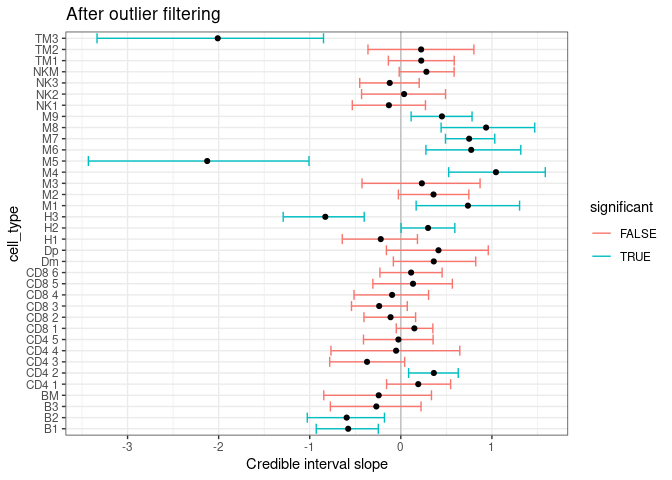
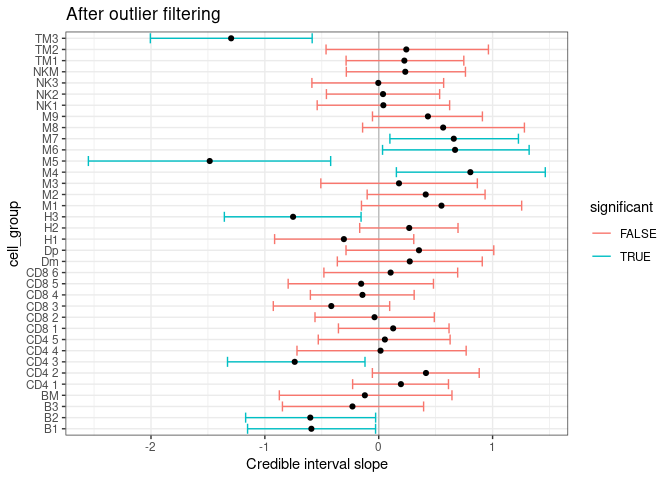
update code

diff --git a/README.md b/README.md
@@ -8,11 +8,7 @@ sccomp - outlier-free compositional analysis
 status](https://github.com/stemangiola/tidyseurat/workflows/R-CMD-check/badge.svg)](https://github.com/stemangiola/tidyseurat/actions/)
 <!-- badges: end -->
 
-``` r
-library(furrr)
-```
-
-    ## Loading required package: future
+# <img src="inst/logo-01.png" height="139px" width="120px" />
 
 ``` r
 library(dplyr)
@@ -40,44 +36,69 @@ library(sccomp)
 ``` r
 library(tidyr)
 library(ggplot2)
+data("seurat_obj")
+data("sce_obj")
+data("counts_obj")
 ```
+
+# From Seurat Object
 
 ``` r
   res =
-    sccomp::cell_counts %>%
-    sccomp_glm(
-      formula = ~ type,
-      sample, cell_type, count
-    )
+    seurat_obj %>%
+    sccomp_glm(  ~ type, sample, cell_group )
 ```
 
-    ## sccomp says: started fit 1/3
+# From SingleCellExperiment Object
 
-    ## sccomp says: started fit 2/3
+``` r
+  res =
+    sce_obj %>%
+    sccomp_glm( ~ type, sample, cell_group)
+```
 
-    ## sccomp says: started fit 3/3
+# From data.frame
 
-These are the cell\_types for which inference was biased by the presence
-of outliers
+``` r
+  res =
+    seurat_obj[[]] %>%
+    sccomp_glm(~ type, sample, cell_group )
+```
+
+# From counts
+
+``` r
+  res =
+    counts_obj %>%
+    sccomp_glm( ~ type, sample, cell_group, count)
+```
+
+    ## sccomp says: outlier identification first pass - step 1/3
+
+    ## sccomp says: outlier identification second pass - step 2/3
+
+    ## sccomp says: outlier-free model fitting - step 3/3
+
+Outliers identified
 
 ``` r
 res %>% 
   unnest(outliers) %>%
-  left_join(sccomp::cell_counts) %>%
+  left_join(counts_obj) %>%
   group_by(sample) %>%
   mutate(proportion = count/sum(count)) %>%
   ungroup(sample) %>%
   ggplot(aes(type, proportion)) +
   geom_boxplot(aes(fill=significant), outlier.shape = NA) + 
   geom_jitter(aes(color=outlier), size = 1) + 
-  facet_wrap(~ interaction(cell_type), scale="free_y") +
+  facet_wrap(~ interaction(cell_group), scale="free_y") +
   scale_y_continuous(trans="logit") +
    scale_color_manual(values = c("black", "#e11f28")) +
   scale_fill_manual(values = c("white", "#E2D379")) +
   theme_bw()
 ```
 
-    ## Joining, by = c("cell_type", "sample")
+    ## Joining, by = c("cell_group", "sample")
 
     ## Warning: Transformation introduced infinite values in continuous y-axis
 
@@ -85,11 +106,13 @@ res %>%
 
     ## Warning: Removed 27 rows containing non-finite values (stat_boxplot).
 
-![](man/figures/unnamed-chunk-4-1.png)<!-- -->
+![](man/figures/unnamed-chunk-7-1.png)<!-- -->
+
+Credible intervals
 
 ``` r
 res %>%
-  ggplot(aes(x=`.median_typecancer`, y=cell_type)) +
+  ggplot(aes(x=`.median_typecancer`, y=cell_group)) +
   geom_vline(xintercept = 0, colour="grey") +
   geom_errorbar(aes(xmin=`.lower_typecancer`, xmax=`.upper_typecancer`, color=significant)) +
   geom_point() +
@@ -98,4 +121,4 @@ res %>%
   ggtitle("After outlier filtering")
 ```
 
-![](man/figures/unnamed-chunk-5-1.png)<!-- -->
+![](man/figures/unnamed-chunk-8-1.png)<!-- -->
